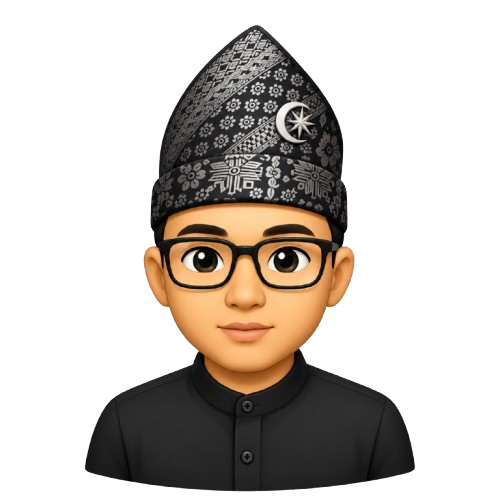
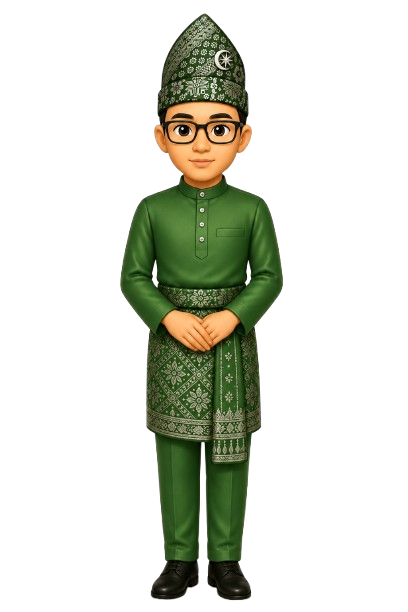
feat: improve homepage layout & UI consistency
- Replace separate rumah/tanjak/sunting images with combined 'rumah dan orang.png' on homepage
- Resize and reposition house illustration for better visual composition
- Make homepage fit exactly 1 screen (h-screen, remove excessive padding/margin)
- Add auto-play welcome voice on homepage open (sambutan-home.mp3)
- Add sambutan-home entry to download-sounds.js
- Fix text colors across all game pages to match bright white overlay background
  - huruf-vokal: purple dark tones
  - anggota-tubuh: green dark tones
  - mengeja-kata: pink dark tones
  - tebak-huruf: blue dark tones
- Fix 'kembali ke menu' button text visibility on all game pages

diff --git a/app/page.tsx b/app/page.tsx
@@ -1,4 +1,5 @@
 "use client";
+import { useEffect } from "react";
 import { useRouter } from "next/navigation";
 import { useBacksound } from "../components/BacksoundContext";
 import { useTTS } from "../components/useTTS";
@@ -46,13 +47,21 @@ export default function HomePage() {
   const { speak } = useTTS();
 
   const handleMulai = async () => {
-    play(); // start backsound (backsound akan duck otomatis saat speak)
+    play();
     await speak("Mulai bermain!");
     router.push("/menu");
   };
 
+  useEffect(() => {
+    // Putar suara sambutan saat halaman pertama kali dibuka
+    const audio = new Audio("/voices/sambutan-home.mp3");
+    audio.play().catch(() => {
+      // Jika browser blokir autoplay, diam saja
+    });
+  }, []);
+
   return (
-    <div className="min-h-screen flex flex-col items-center justify-center relative overflow-hidden">
+    <div className="h-screen flex flex-col items-center justify-center relative overflow-hidden">
       <MotiefBackground />
 
       {/* Border atas */}
@@ -66,22 +75,29 @@ export default function HomePage() {
         <div style={{ height: 12, background: "#2D6A4F", opacity: 0.85 }} />
       </div>
 
-      <div className="relative z-10 flex flex-col items-center justify-center text-center px-6 py-16 max-w-lg w-full">
+      <div className="relative z-10 flex flex-col items-center justify-center text-center px-6 w-full" style={{ maxWidth: 520 }}>
 
-        <div className="mb-1" style={{ filter: "drop-shadow(0 2px 4px rgba(0,0,0,0.15))" }}>
-          <img src="/pictures/rumah.png" alt="Rumah Melayu" width={80} height={80} style={{ objectFit: "contain" }} />
+        {/* Ilustrasi rumah + karakter */}
+        <div className="flex items-end justify-center mb-3">
+          <img
+            src="/pictures/rumah dan orang.png"
+            alt="Rumah Melayu dengan Bujang dan Dara"
+            className="animate-bounce-gentle"
+            style={{
+              width: "min(360px, 72vw)",
+              objectFit: "contain",
+              filter: "drop-shadow(0 6px 16px rgba(0,0,0,0.2))",
+              animationDelay: "0s",
+            }}
+          />
         </div>
 
-        <div className="flex gap-4 justify-center mb-6">
-          <img src="/pictures/tanjak.png" alt="Bujang" width={80} height={80} className="animate-bounce-gentle" style={{ objectFit: "contain", animationDelay: "0s" }} />
-          <img src="/pictures/sunting.png" alt="Dara" width={80} height={80} className="animate-bounce-gentle" style={{ objectFit: "contain", animationDelay: "0.3s" }} />
-        </div>
-
+        {/* Judul */}
         <h1
-          className="font-black leading-tight mb-3"
+          className="font-black leading-tight mb-2"
           style={{
             color: "#7B2D00",
-            fontSize: "clamp(1.8rem, 6vw, 2.8rem)",
+            fontSize: "clamp(1rem, 3vw, 1.6rem)",
             textTransform: "uppercase",
             letterSpacing: "0.02em",
             textShadow: "0 2px 4px rgba(0,0,0,0.08)",
@@ -90,30 +106,31 @@ export default function HomePage() {
           Yuk, Kenali Huruf Vokal dan Bagian Tubuh Kita!
         </h1>
 
-        <p className="text-base font-semibold mb-10" style={{ color: "#555", letterSpacing: "0.01em" }}>
+        {/* Subjudul */}
+        <p className="text-sm font-semibold mb-5" style={{ color: "#555", letterSpacing: "0.01em" }}>
           Petualangan Bujang &amp; Dara &mdash; Nuansa Melayu Riau Siak
         </p>
 
-        {/* Tombol Mulai dengan panah berkelap-kelip */}
+        {/* Tombol Mulai */}
         <button
           onClick={handleMulai}
-          className="btn-game px-10 py-5 rounded-2xl text-white font-black text-xl shadow-lg flex items-center justify-center gap-2"
+          className="btn-game px-10 py-4 rounded-2xl text-white font-black text-lg shadow-lg flex items-center justify-center gap-2"
           style={{
             background: "#2D6A4F",
             boxShadow: "0 6px 0 #1B4332",
             letterSpacing: "0.08em",
-            minWidth: 260,
+            minWidth: 240,
           }}
         >
           MULAI BERMAIN!
           <span className="flex items-center" style={{ marginLeft: 4 }}>
-            <span className="animate-arrow-blink" style={{ animationDelay: "0s",    fontSize: 22, color: "#FFD700" }}>▶</span>
-            <span className="animate-arrow-blink" style={{ animationDelay: "0.25s", fontSize: 22, color: "#FFD700" }}>▶</span>
-            <span className="animate-arrow-blink" style={{ animationDelay: "0.5s",  fontSize: 22, color: "#FFD700" }}>▶</span>
+            <span className="animate-arrow-blink" style={{ animationDelay: "0s",    fontSize: 20, color: "#FFD700" }}>▶</span>
+            <span className="animate-arrow-blink" style={{ animationDelay: "0.25s", fontSize: 20, color: "#FFD700" }}>▶</span>
+            <span className="animate-arrow-blink" style={{ animationDelay: "0.5s",  fontSize: 20, color: "#FFD700" }}>▶</span>
           </span>
         </button>
 
-        <p className="mt-10 text-sm font-semibold" style={{ color: "#8B6914" }}>
+        <p className="mt-4 text-xs font-semibold" style={{ color: "#8B6914" }}>
           Game Edukasi PAUD &bull; Budaya Melayu Riau
         </p>
       </div>

diff --git a/app/huruf-vokal/page.tsx b/app/huruf-vokal/page.tsx
@@ -79,7 +79,10 @@ export default function HurufVokalPage() {
         background: "url('/pictures/background.png') center/cover no-repeat",
       }}>
       {/* Overlay */}
-      <div className="absolute inset-0" style={{ background: "rgba(102,126,234,0.7)" }} />
+      <div
+        className="absolute inset-0"
+        style={{ background: "rgba(255,255,255,0.55)" }}
+      />
       {/* Dekorasi */}
       <div className="absolute inset-0 pointer-events-none">
         {["🔤", "📝", "✏", "📚", "🎨"].map((icon, i) => (
@@ -100,8 +103,8 @@ export default function HurufVokalPage() {
       {/* Header */}
       <div className="relative z-10 text-center mb-6">
         <div className="text-5xl mb-2 animate-bounce-gentle">🔤</div>
-        <h1 className="text-3xl font-black text-white">Huruf Vokal</h1>
-        <p className="text-purple-200 mt-1 font-semibold text-sm">
+        <h1 className="text-3xl font-black" style={{ color: "#4A1060" }}>Huruf Vokal</h1>
+        <p className="mt-1 font-semibold text-sm" style={{ color: "#6B2D87" }}>
           Klik huruf untuk dengar bunyinya!
         </p>
       </div>
@@ -123,10 +126,15 @@ export default function HurufVokalPage() {
                   ? `0 2px 0 ${item.warnaGelap}, 0 0 20px ${item.warna}`
                   : `0 6px 0 ${item.warnaGelap}`,
               transform: activeHuruf === item.huruf ? "translateY(4px)" : "",
-              outline: sudahDiputar.has(item.huruf) ? "3px solid white" : "none",
+              outline: sudahDiputar.has(item.huruf)
+                ? "3px solid white"
+                : "none",
             }}>
             <span className="text-4xl">{item.huruf}</span>
-            <EmojiOrImage value={item.emoji} size={item.emoji.startsWith('/') ? 52 : 28} />
+            <EmojiOrImage
+              value={item.emoji}
+              size={item.emoji.startsWith("/") ? 52 : 28}
+            />
           </button>
         ))}
       </div>
@@ -146,7 +154,10 @@ export default function HurufVokalPage() {
                   <span>
                     {activeHuruf} — {item?.contoh}
                   </span>
-                  <EmojiOrImage value={item?.emoji ?? ""} size={(item?.emoji ?? '').startsWith('/') ? 56 : 36} />
+                  <EmojiOrImage
+                    value={item?.emoji ?? ""}
+                    size={(item?.emoji ?? "").startsWith("/") ? 56 : 36}
+                  />
                 </div>
                 <div className="text-sm text-gray-500 mt-1">
                   🔊 Sedang berbunyi...
@@ -155,7 +166,7 @@ export default function HurufVokalPage() {
             );
           })()
         ) : (
-          <div className="text-white text-center opacity-70 text-sm font-semibold">
+          <div className="text-center text-sm font-semibold" style={{ color: "#5C2D7A", opacity: 0.8 }}>
             👆 Tekan salah satu huruf vokal di atas!
           </div>
         )}
@@ -165,9 +176,10 @@ export default function HurufVokalPage() {
       <button
         onClick={() => !isPlaying && router.push("/menu")}
         disabled={isPlaying}
-        className="btn-game mt-4 relative z-10 px-6 py-3 rounded-full font-bold text-white text-sm"
+        className="btn-game mt-4 relative z-10 px-6 py-3 rounded-full font-bold text-sm"
         style={{
-          background: isPlaying ? "rgba(255,255,255,0.08)" : "rgba(255,255,255,0.2)",
+          background: isPlaying ? "rgba(0,0,0,0.08)" : "rgba(0,0,0,0.15)",
+          color: isPlaying ? "#aaa" : "#3B0764",
           opacity: isPlaying ? 0.5 : 1,
           cursor: isPlaying ? "not-allowed" : "pointer",
         }}>

diff --git a/app/anggota-tubuh/page.tsx b/app/anggota-tubuh/page.tsx
@@ -51,12 +51,15 @@ export default function AnggotaTubuhPage() {
         background: "url('/pictures/background.png') center/cover no-repeat",
       }}>
       {/* Overlay */}
-      <div className="absolute inset-0" style={{ background: "rgba(17,153,142,0.7)" }} />
+      <div
+        className="absolute inset-0"
+        style={{ background: "rgba(255,255,255,0.55)" }}
+      />
       {/* Header */}
       <div className="relative z-10 text-center mb-4">
         <div className="text-4xl mb-1 animate-bounce-gentle">🫀</div>
-        <h1 className="text-2xl font-black text-white">Anggota Tubuh</h1>
-        <p className="text-green-100 text-sm font-semibold">
+        <h1 className="text-2xl font-black" style={{ color: "#0D4F3C" }}>Anggota Tubuh</h1>
+        <p className="text-sm font-semibold" style={{ color: "#1B6B52" }}>
           {currentIndex + 1} / {anggotaTubuhData.length}
         </p>
       </div>
@@ -119,7 +122,8 @@ export default function AnggotaTubuhPage() {
             className="btn-game flex-1 py-3 rounded-xl font-bold text-white text-sm"
             style={{
               background: currentIndex === 0 || isPlaying ? "#ccc" : "#666",
-              boxShadow: currentIndex === 0 || isPlaying ? "none" : "0 4px 0 #333",
+              boxShadow:
+                currentIndex === 0 || isPlaying ? "none" : "0 4px 0 #333",
             }}>
             ← Sebelumnya
           </button>
@@ -131,8 +135,8 @@ export default function AnggotaTubuhPage() {
               background: isPlaying
                 ? "#ccc"
                 : isLast
-                ? "linear-gradient(135deg, #F9A825, #E65100)"
-                : `linear-gradient(135deg, ${current.warna}, #222)`,
+                  ? "linear-gradient(135deg, #F9A825, #E65100)"
+                  : `linear-gradient(135deg, ${current.warna}, #222)`,
               boxShadow: isPlaying ? "none" : `0 4px 0 #222`,
             }}>
             {isLast ? "Lanjut →" : "Berikutnya →"}
@@ -144,9 +148,10 @@ export default function AnggotaTubuhPage() {
       <button
         onClick={() => !isPlaying && router.push("/menu")}
         disabled={isPlaying}
-        className="btn-game mt-5 relative z-10 px-6 py-3 rounded-full font-bold text-white text-sm"
+        className="btn-game mt-5 relative z-10 px-6 py-3 rounded-full font-bold text-sm"
         style={{
-          background: isPlaying ? "rgba(0,0,0,0.08)" : "rgba(0,0,0,0.2)",
+          background: isPlaying ? "rgba(0,0,0,0.08)" : "rgba(0,0,0,0.15)",
+          color: isPlaying ? "#aaa" : "#0D4F3C",
           opacity: isPlaying ? 0.5 : 1,
           cursor: isPlaying ? "not-allowed" : "pointer",
         }}>

diff --git a/app/tebak-huruf/page.tsx b/app/tebak-huruf/page.tsx
@@ -164,7 +164,7 @@ export default function TebakHurufPage() {
         background: "url('/pictures/background.png') center/cover no-repeat",
       }}>
       {/* Overlay */}
-      <div className="absolute inset-0" style={{ background: "rgba(106,17,203,0.7)" }} />
+      <div className="absolute inset-0" style={{ background: "rgba(255,255,255,0.55)" }} />
       {/* Confetti */}
       {showConfetti && (
         <div className="fixed inset-0 pointer-events-none z-50">
@@ -186,8 +186,8 @@ export default function TebakHurufPage() {
       {/* Header */}
       <div className="relative z-10 text-center mb-4">
         <div className="text-4xl mb-1 animate-bounce-gentle">🎯</div>
-        <h1 className="text-2xl font-black text-white">Tebak Huruf A & O</h1>
-        <p className="text-blue-200 text-sm font-semibold">
+        <h1 className="text-2xl font-black" style={{ color: "#0D3B6B" }}>Tebak Huruf A & O</h1>
+        <p className="text-sm font-semibold" style={{ color: "#1A5A9E" }}>
           {currentIndex + 1} / {anggotaTubuhData.length} — Isi huruf yang
           hilang!
         </p>
@@ -318,9 +318,10 @@ export default function TebakHurufPage() {
       <button
         onClick={() => !isPlaying && router.push("/menu")}
         disabled={isPlaying}
-        className="btn-game mt-5 relative z-10 px-6 py-3 rounded-full font-bold text-white text-sm"
+        className="btn-game mt-5 relative z-10 px-6 py-3 rounded-full font-bold text-sm"
         style={{
-          background: isPlaying ? "rgba(0,0,0,0.08)" : "rgba(0,0,0,0.2)",
+          background: isPlaying ? "rgba(0,0,0,0.08)" : "rgba(0,0,0,0.15)",
+          color: isPlaying ? "#aaa" : "#0D3B6B",
           opacity: isPlaying ? 0.5 : 1,
           cursor: isPlaying ? "not-allowed" : "pointer",
         }}>

diff --git a/app/mengeja-kata/page.tsx b/app/mengeja-kata/page.tsx
@@ -66,8 +66,8 @@ export default function MengejaKataPage() {
       {/* Header */}
       <div className="relative z-10 text-center mb-4">
         <div className="text-4xl mb-1 animate-bounce-gentle">📖</div>
-        <h1 className="text-2xl font-black text-white">Mengeja Kata</h1>
-        <p className="text-pink-100 text-sm font-semibold">
+        <h1 className="text-2xl font-black" style={{ color: "#6B0F6B" }}>Mengeja Kata</h1>
+        <p className="text-sm font-semibold" style={{ color: "#8B1A8B" }}>
           {currentIndex + 1} / {anggotaTubuhData.length} — Klik suku kata!
         </p>
       </div>
@@ -75,7 +75,7 @@ export default function MengejaKataPage() {
       {/* Progress */}
       <div
         className="relative z-10 w-full max-w-sm h-3 rounded-full mb-6 overflow-hidden"
-        style={{ background: "rgba(255,255,255,0.3)" }}>
+        style={{ background: "rgba(255,255,255,0.55)" }}>
         <div
           className="h-full rounded-full transition-all duration-500"
           style={{
@@ -179,9 +179,10 @@ export default function MengejaKataPage() {
       <button
         onClick={() => !isPlaying && router.push("/menu")}
         disabled={isPlaying}
-        className="btn-game mt-5 relative z-10 px-6 py-3 rounded-full font-bold text-white text-sm"
+        className="btn-game mt-5 relative z-10 px-6 py-3 rounded-full font-bold text-sm"
         style={{
-          background: isPlaying ? "rgba(0,0,0,0.08)" : "rgba(0,0,0,0.2)",
+          background: isPlaying ? "rgba(0,0,0,0.08)" : "rgba(0,0,0,0.15)",
+          color: isPlaying ? "#aaa" : "#6B0F6B",
           opacity: isPlaying ? 0.5 : 1,
           cursor: isPlaying ? "not-allowed" : "pointer",
         }}>

diff --git a/download-sounds.js b/download-sounds.js
@@ -51,6 +51,7 @@ const soundWords = [
   // === Navigasi ===
   { text: "Mulai bermain!", file: "mulai-bermain", dir: voicesDir },
   { text: "Pilih permainan!", file: "pilih-permainan", dir: voicesDir },
+  { text: "Yuk, Kenali Huruf Vokal dan Bagian Tubuh Kita!", file: "sambutan-home", dir: voicesDir },
   { text: "Ayo, kenali huruf-huruf vokal!", file: "ayo-huruf-vokal", dir: voicesDir },
   { text: "Ayo, kenali anggota tubuh!", file: "ayo-anggota-tubuh", dir: voicesDir },
   { text: "Ayo, belajar mengeja kata!", file: "ayo-mengeja-kata", dir: voicesDir },
